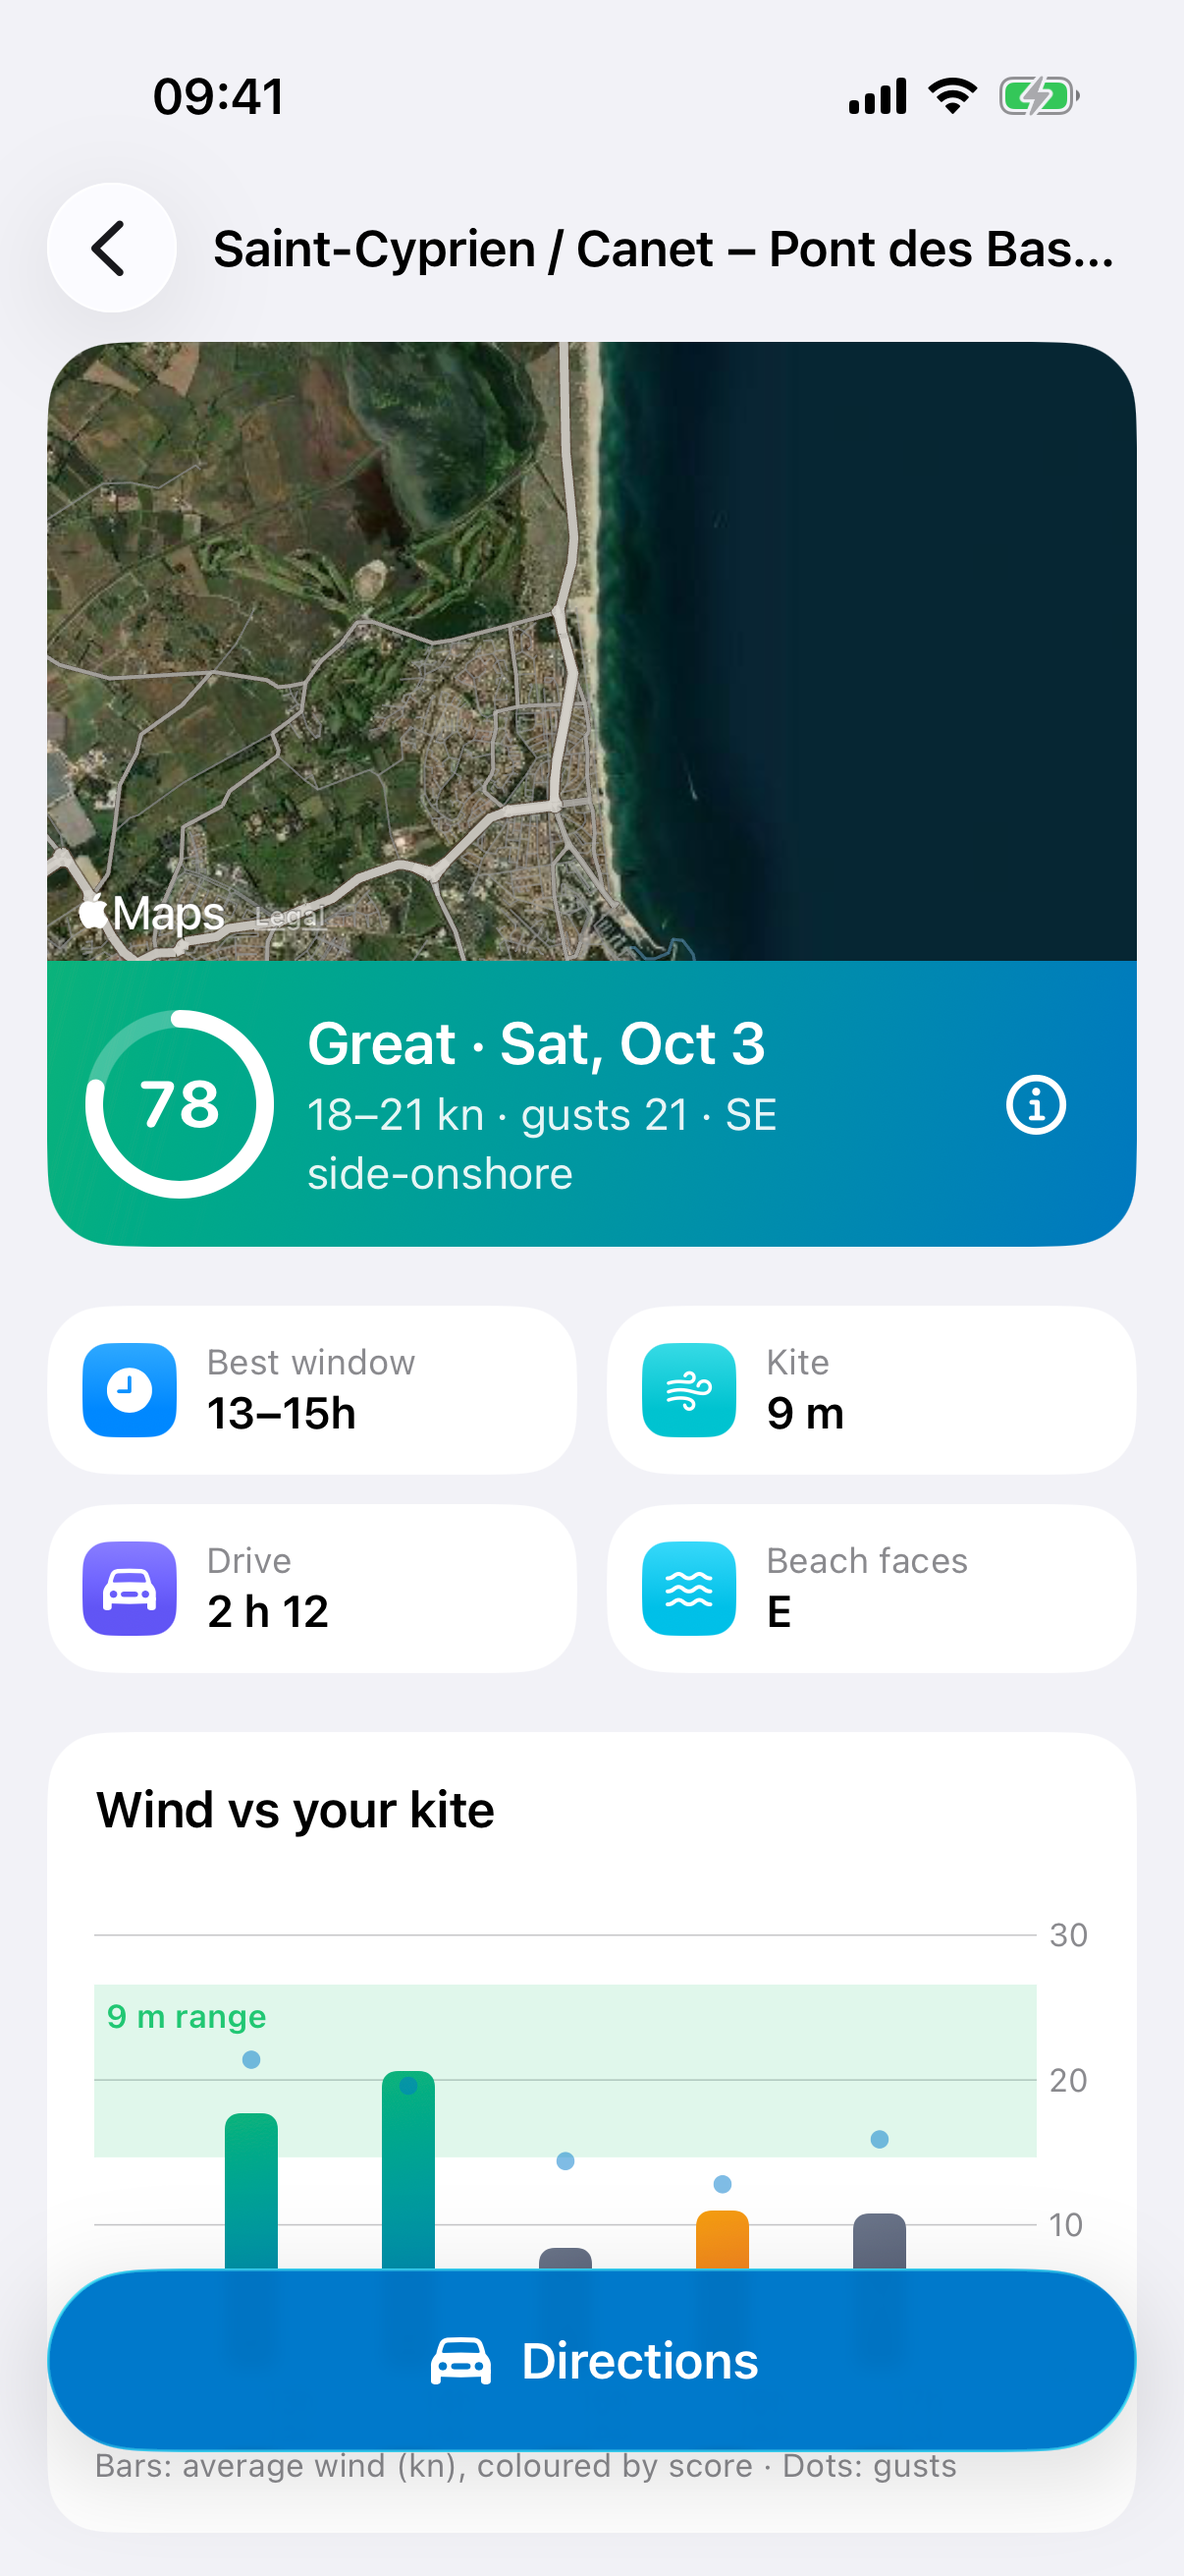
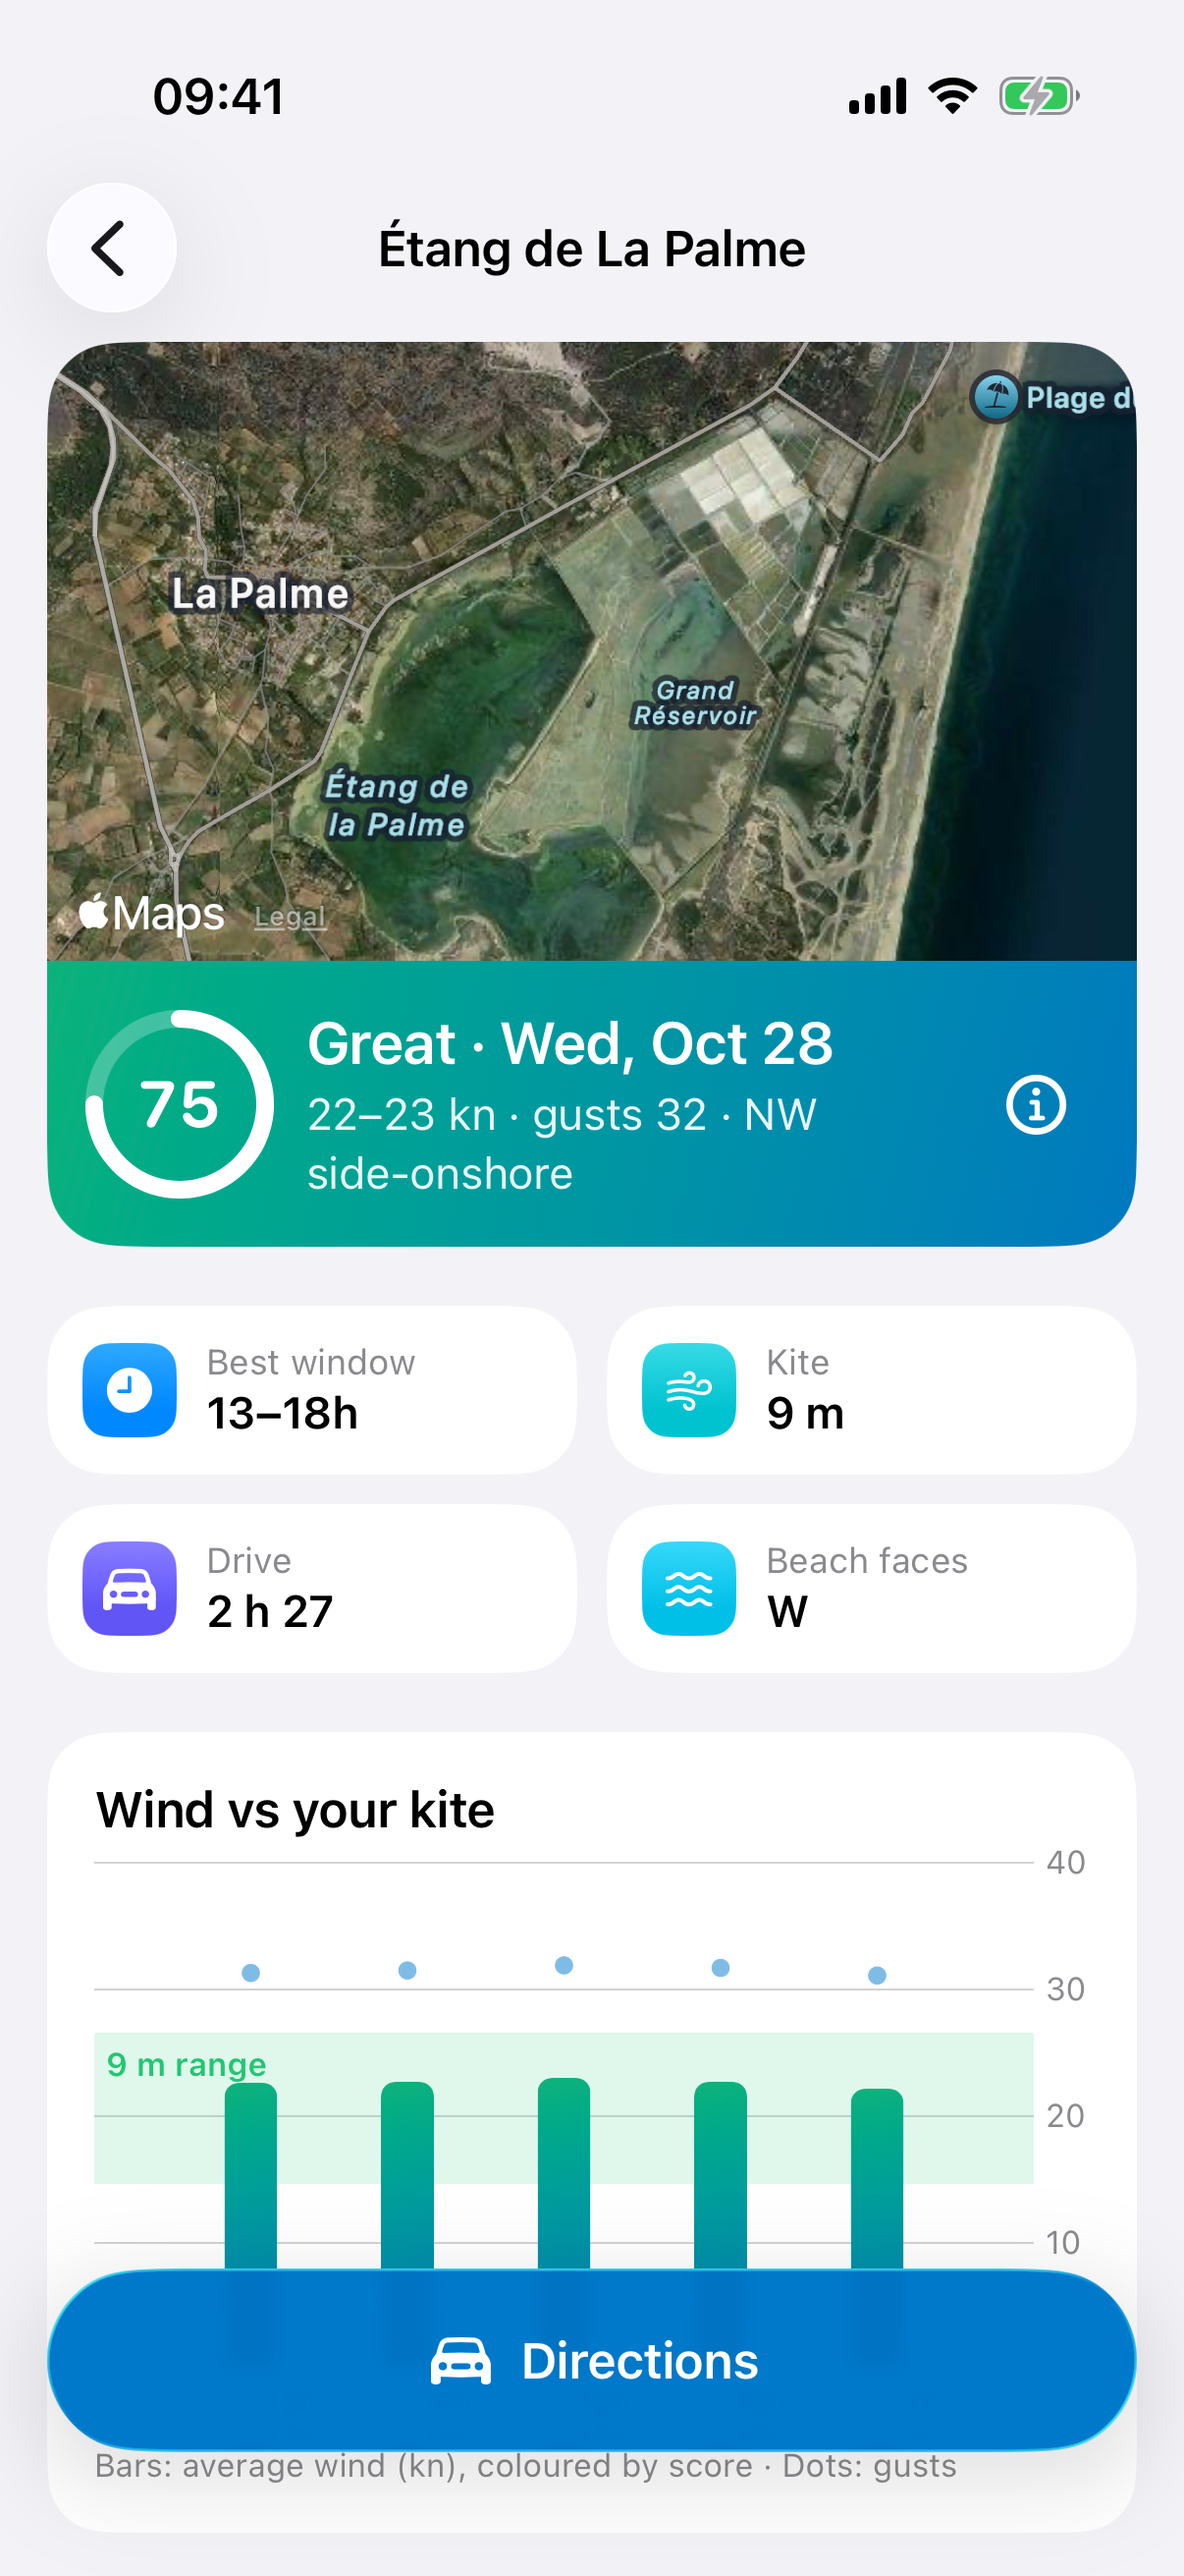
Free plan: four forecast days instead of two; store screenshots from a real windy day (Leucate, 28 Oct)

diff --git a/App/WhereToKite/Models/Plan.swift b/App/WhereToKite/Models/Plan.swift
@@ -31,7 +31,7 @@ struct Entitlements: Equatable {
     /// "Next good window": when the searched day is poor, the next day in the week that works.
     var nextWindow: Bool = false
 
-    static let free = Entitlements(maxDriveMinutes: 180, forecastDays: 2, maxUserSpots: 1, maxResults: 5,
+    static let free = Entitlements(maxDriveMinutes: 180, forecastDays: 4, maxUserSpots: 1, maxResults: 5,
                                    scoreWeights: false, advancedSpotSettings: true)
     static let pro = Entitlements(maxDriveMinutes: nil, forecastDays: 7, maxUserSpots: nil, maxResults: nil,
                                   scoreWeights: true, advancedSpotSettings: true, proSpots: true, nextWindow: true)
@@ -115,7 +115,7 @@ struct ProSheet: View {
 
     private let features: [(String, String, String)] = [
         ("bell.badge.fill", String(localized: "It's on alerts"), String(localized: "A notification when your spots light up for your kites (coming with Pro).")),
-        ("calendar", String(localized: "7-day planning"), String(localized: "The whole week, not just today and tomorrow.")),
+        ("calendar", String(localized: "7-day planning"), String(localized: "The whole week, not just the next four days.")),
         ("calendar.badge.clock", String(localized: "Next good window"), String(localized: "When today is flat, the next day this week that works, and where.")),
         ("car.fill", String(localized: "Drives up to 10 h"), String(localized: "Weekend trips, not just the local spots (3\u{00A0}h free).")),
         ("list.number", String(localized: "Every spot"), String(localized: "The full ranking and map (top 5 free), plus about 300 more local spots.")),

diff --git a/App/WhereToKiteUITests/StoreScreenshotsTests.swift b/App/WhereToKiteUITests/StoreScreenshotsTests.swift
@@ -1,7 +1,7 @@
 import XCTest
 
-/// App Store screenshots, free plan, from Barcelona on a real forecast (today, or tomorrow with
-/// TEST_RUNNER_SHOTS_TOMORROW=1), so the day shown matches the results:
+/// App Store screenshots, free plan, from Barcelona on a real forecast (today, or a later day
+/// of the free plan's four with TEST_RUNNER_SHOTS_DAY=1…3), so the day shown matches the results:
 /// results → spot detail → "How is this scored?" → search options → rider profile → own spot.
 /// Run on the 6.9" and 6.3" simulators; see .claude/skills/store-screenshots.
 final class StoreScreenshotsTests: XCTestCase {
@@ -16,9 +16,9 @@ final class StoreScreenshotsTests: XCTestCase {
         let allow = springboard.buttons["Allow While Using App"]
         if allow.waitForExistence(timeout: 4) { allow.tap() }
 
-        if ProcessInfo.processInfo.environment["SHOTS_TOMORROW"] == "1" {
-            XCTAssertTrue(app.buttons["day1"].waitForExistence(timeout: 5))
-            app.buttons["day1"].tap()
+        if let day = ProcessInfo.processInfo.environment["SHOTS_DAY"], day != "0" {
+            XCTAssertTrue(app.buttons["day\(day)"].waitForExistence(timeout: 5))
+            app.buttons["day\(day)"].tap()
         }
 
         // Windy spots are often ~2 h away: the free plan's 3 h covers them.

diff --git a/App/WhereToKiteUITests/SmokeTests.swift b/App/WhereToKiteUITests/SmokeTests.swift
@@ -197,7 +197,7 @@ final class SmokeTests: XCTestCase {
         }
     }
 
-    /// v1 free plan (no visible Pro): terms must be accepted, two days, drives up to 3 h,
+    /// v1 free plan (no visible Pro): terms must be accepted, four days, drives up to 3 h,
     /// no weights and no Pro anywhere, About reachable.
     @MainActor
     func testFreePlanLimits() throws {
@@ -211,9 +211,9 @@ final class SmokeTests: XCTestCase {
         XCTAssertTrue(start.isEnabled)
         start.tap()
 
-        // Today and tomorrow only, no locked days.
-        XCTAssertTrue(app.buttons["day1"].waitForExistence(timeout: 5))
-        XCTAssertFalse(app.buttons["day2"].exists)
+        // Four days, no locked days.
+        XCTAssertTrue(app.buttons["day3"].waitForExistence(timeout: 5))
+        XCTAssertFalse(app.buttons["day4"].exists)
         // Five sessions, incl. evening and the rider's own hours.
         XCTAssertTrue(app.buttons["slot-evening"].exists)
         XCTAssertTrue(app.buttons["slot-custom"].exists)

diff --git a/docs/APP_STORE_CONNECT.md b/docs/APP_STORE_CONNECT.md
@@ -66,7 +66,7 @@ Tell it where you start, how far you'll drive and when you ride. WhereToKite che
 ```
 Where should you kite today? WhereToKite answers in one search.
 
-Set your start point, how long you're willing to drive, the day and your session (morning, afternoon, evening or your own hours). WhereToKite checks the forecast at every well-known kite spot in reach and gives you a ranked list, with the best two-hour window at each spot. Up to three hours' drive and two days ahead.
+Set your start point, how long you're willing to drive, the day and your session (morning, afternoon, evening or your own hours). WhereToKite checks the forecast at every well-known kite spot in reach and gives you a ranked list, with the best two-hour window at each spot. Up to three hours' drive and four days ahead.
 
 MATCHED TO YOU AND YOUR KITES
 Enter your weight, your level and the kites in your quiver once. Each hour is scored on what matters on the water:
@@ -134,7 +134,7 @@ Dinos desde dónde sales, cuánto quieres conducir y cuándo navegas. WhereToKit
 ```
 ¿Dónde navego hoy? WhereToKite te lo dice en una sola búsqueda.
 
-Elige tu punto de salida, cuánto estás dispuesto a conducir, el día y tu sesión (temprano, tarde, atardecer o tus propias horas). WhereToKite consulta la previsión en cada spot de kite conocido a tu alcance y te da una lista ordenada, con la mejor ventana de dos horas en cada spot. Hasta tres horas de trayecto y dos días vista.
+Elige tu punto de salida, cuánto estás dispuesto a conducir, el día y tu sesión (temprano, tarde, atardecer o tus propias horas). WhereToKite consulta la previsión en cada spot de kite conocido a tu alcance y te da una lista ordenada, con la mejor ventana de dos horas en cada spot. Hasta tres horas de trayecto y cuatro días vista.
 
 ADAPTADO A TI Y A TUS COMETAS
 Indica una vez tu peso, tu nivel y las cometas que tienes. Cada hora se puntúa según lo que importa en el agua:
@@ -188,7 +188,7 @@ Dis d'où tu pars, jusqu'où tu roules et quand tu navigues. WhereToKite regarde
 ```
 On ride où aujourd'hui ? WhereToKite te répond en une seule recherche.
 
-Choisis ton point de départ, le temps de route que tu acceptes, le jour et ta session (matin, après-midi, soir ou tes propres heures). WhereToKite consulte la prévision sur chaque spot de kite connu à ta portée et te donne un classement, avec le meilleur créneau de deux heures sur chaque spot. Jusqu'à trois heures de route et deux jours à l'avance.
+Choisis ton point de départ, le temps de route que tu acceptes, le jour et ta session (matin, après-midi, soir ou tes propres heures). WhereToKite consulte la prévision sur chaque spot de kite connu à ta portée et te donne un classement, avec le meilleur créneau de deux heures sur chaque spot. Jusqu'à trois heures de route et quatre jours à l'avance.
 
 ADAPTÉ À TOI ET À TES AILES
 Indique une fois ton poids, ton niveau et les ailes de ton quiver. Chaque heure est notée sur ce qui compte sur l'eau :

diff --git a/.claude/skills/store-screenshots/SKILL.md b/.claude/skills/store-screenshots/SKILL.md
@@ -13,9 +13,9 @@ them down for smaller iPhones. The app is iPhone-only: no iPad set.
 - The real app, the **free plan** (never `-unlockPro`: v1 ships without Pro, and App Review
   rejects screenshots of features that can't be used).
 - A real windy day, not an archived one (Ben's call: the day chip must match the results).
-  The free plan only shows today and tomorrow, so check the Open-Meteo forecast for the coasts
-  within 3 h of Barcelona (Leucate, Tarifa is too far) and run on the day before or the day
-  itself; `TEST_RUNNER_SHOTS_TOMORROW=1` makes the test pick tomorrow. Start point stays
+  The free plan shows four days (today + 3), so check the Open-Meteo forecast for the coasts
+  within 3 h of Barcelona (Leucate, Tarifa is too far) and run within the four days before, or on the day
+  itself, or up to 3 days before; `TEST_RUNNER_SHOTS_DAY=N` (1–3) makes the test pick day N. Start point stays
   Barcelona (`-searchOrigin 41.3874,2.1686`). Sizes: 6.9" (1320 × 2868) and 6.3" (1206 × 2622),
   into `docs/store/6.9/` and `docs/store/6.3/`.
 - Suggested set: also "add your own spot" (map pin, then beach direction). (see `docs/APP_STORE_CONNECT.md`, section 4): results list, spot detail with

diff --git a/.claude/agents/app-store-connect-helper.md b/.claude/agents/app-store-connect-helper.md
@@ -14,7 +14,7 @@ You help Ben put WhereToKite v1 on the App Store. He is filling in App Store Con
 - Ben talks by voice: if a message makes no sense for App Store Connect, it's probably background noise. Don't act on it; ask in one line.
 - Start from `docs/APP_STORE_CONNECT.md`: every field is there in App Store Connect's order (app record, texts, screenshots, App Privacy, age rating, pricing, App Review notes, upload).
 - When the guide doesn't cover it, check the facts in the code before answering:
-  - free plan limits: `Entitlements.free` in `App/WhereToKite/Models/Plan.swift` (3 h drive, 2 days, top 5, 1 own spot); v1 shows no Pro (`PaywallMode.freeOnly`);
+  - free plan limits: `Entitlements.free` in `App/WhereToKite/Models/Plan.swift` (3 h drive, 4 days, top 5, 1 own spot); v1 shows no Pro (`PaywallMode.freeOnly`);
   - data that leaves the phone: `App/WhereToKite/PrivacyInfo.xcprivacy` and the `/privacy` page in `server/src/pages.ts`;
   - bundle id, version, encryption: `App/project.yml`;
   - URLs: `https://wheretokite-api.wheretokite-api.workers.dev/privacy` and `/support`.

diff --git a/docs/HANDOFF.md b/docs/HANDOFF.md
@@ -27,7 +27,7 @@ Read this first in a new session, then `docs/TODO.md` (what's pending) and
 
 ## What exists
 - **App** (`App/`, SwiftUI, XcodeGen): version 1.0, `PaywallMode.freeOnly` (Pro hidden).
-  Free plan: 1 own spot, 3 h drive, top 5, 2 days ahead; water sector, second side and tide
+  Free plan: 1 own spot, 3 h drive, top 5, 4 days ahead; water sector, second side and tide
   rule are free; "Next good window" and score weights are Pro.
 - **Engine** (`Sources/KiteCore`): scoring, safety (thunderstorm, dark, seasonal bans = score 0;
   rain −15% from 2 mm/h, −40% from 5 mm/h), tides, next good window. CLI in `Sources/kite`.

diff --git a/.claude/agents/release.md b/.claude/agents/release.md
@@ -29,7 +29,7 @@ App Store is accurate, compliant and gets through App Review the first time.
 ## Standards
 
 - **Say only what the app does.** Check every claim in the store texts against the code
-  (free plan limits in `Plan.swift`: 3 h drive, 2 days, top 5, 1 own spot). Never show or
+  (free plan limits in `Plan.swift`: 3 h drive, 4 days, top 5, 1 own spot). Never show or
   mention Pro while `PaywallMode.freeOnly` is on: App Review rejects features that can't be
   bought.
 - **Privacy in three places, always identical**: `PrivacyInfo.xcprivacy`, the `/privacy` page
